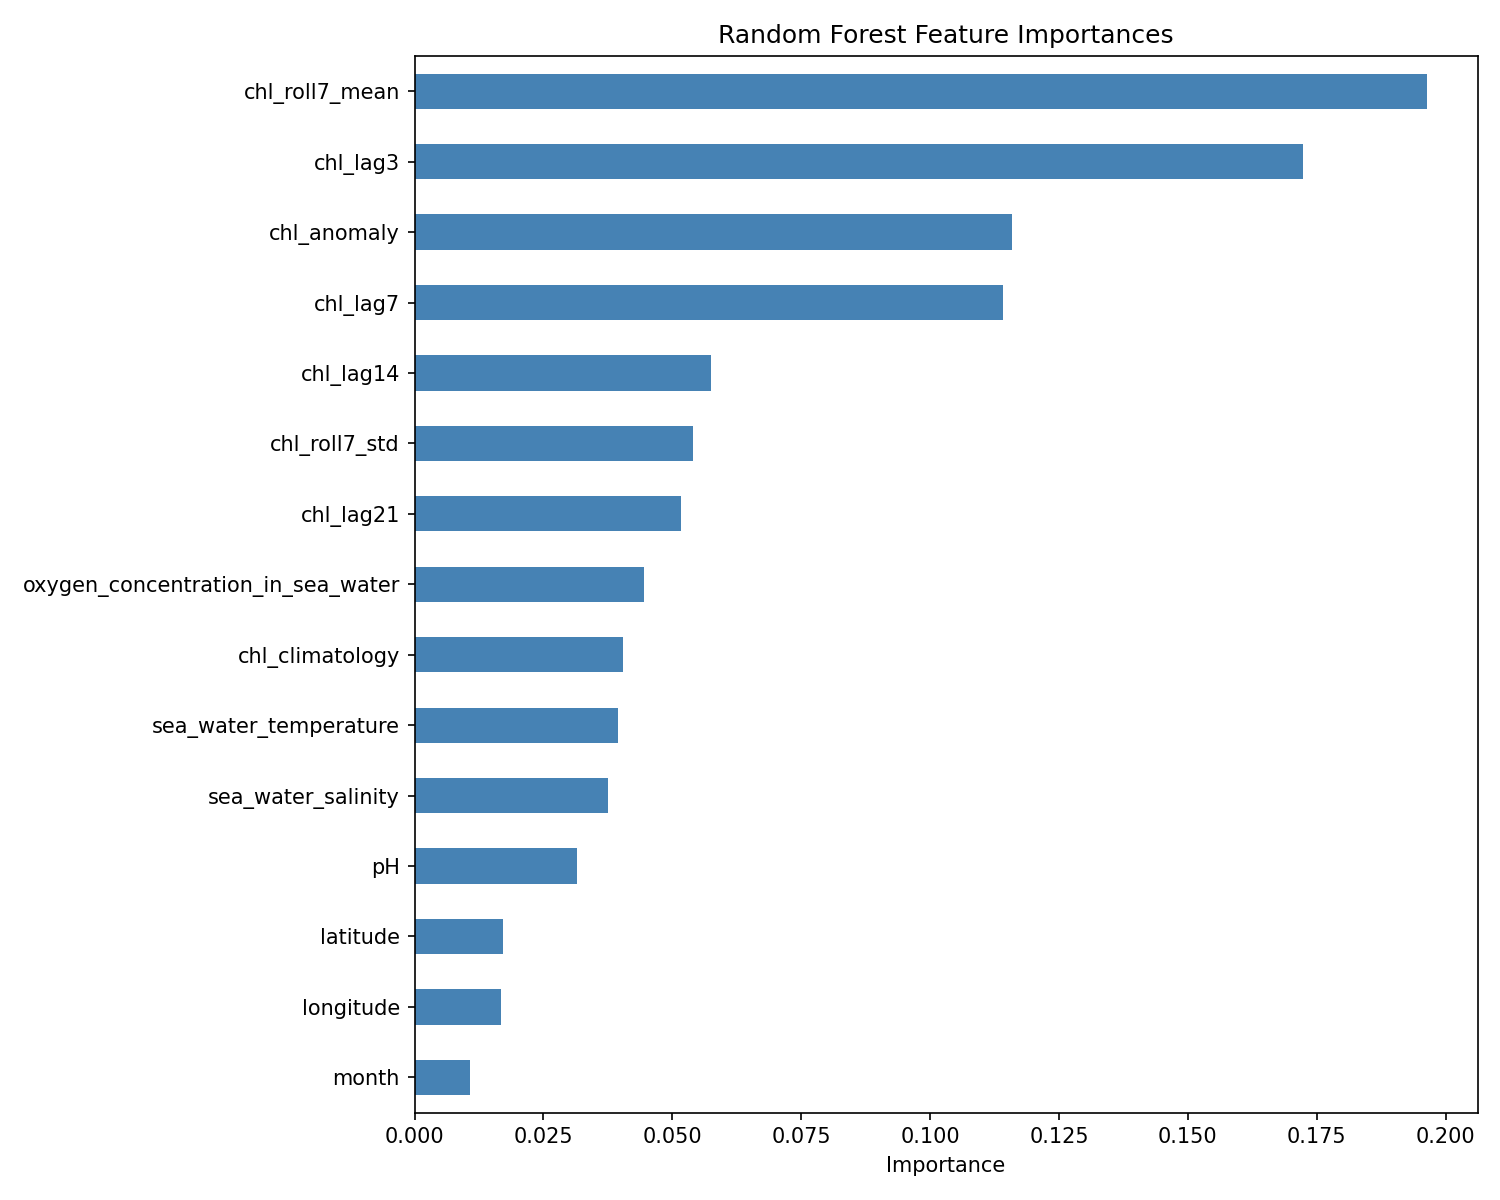
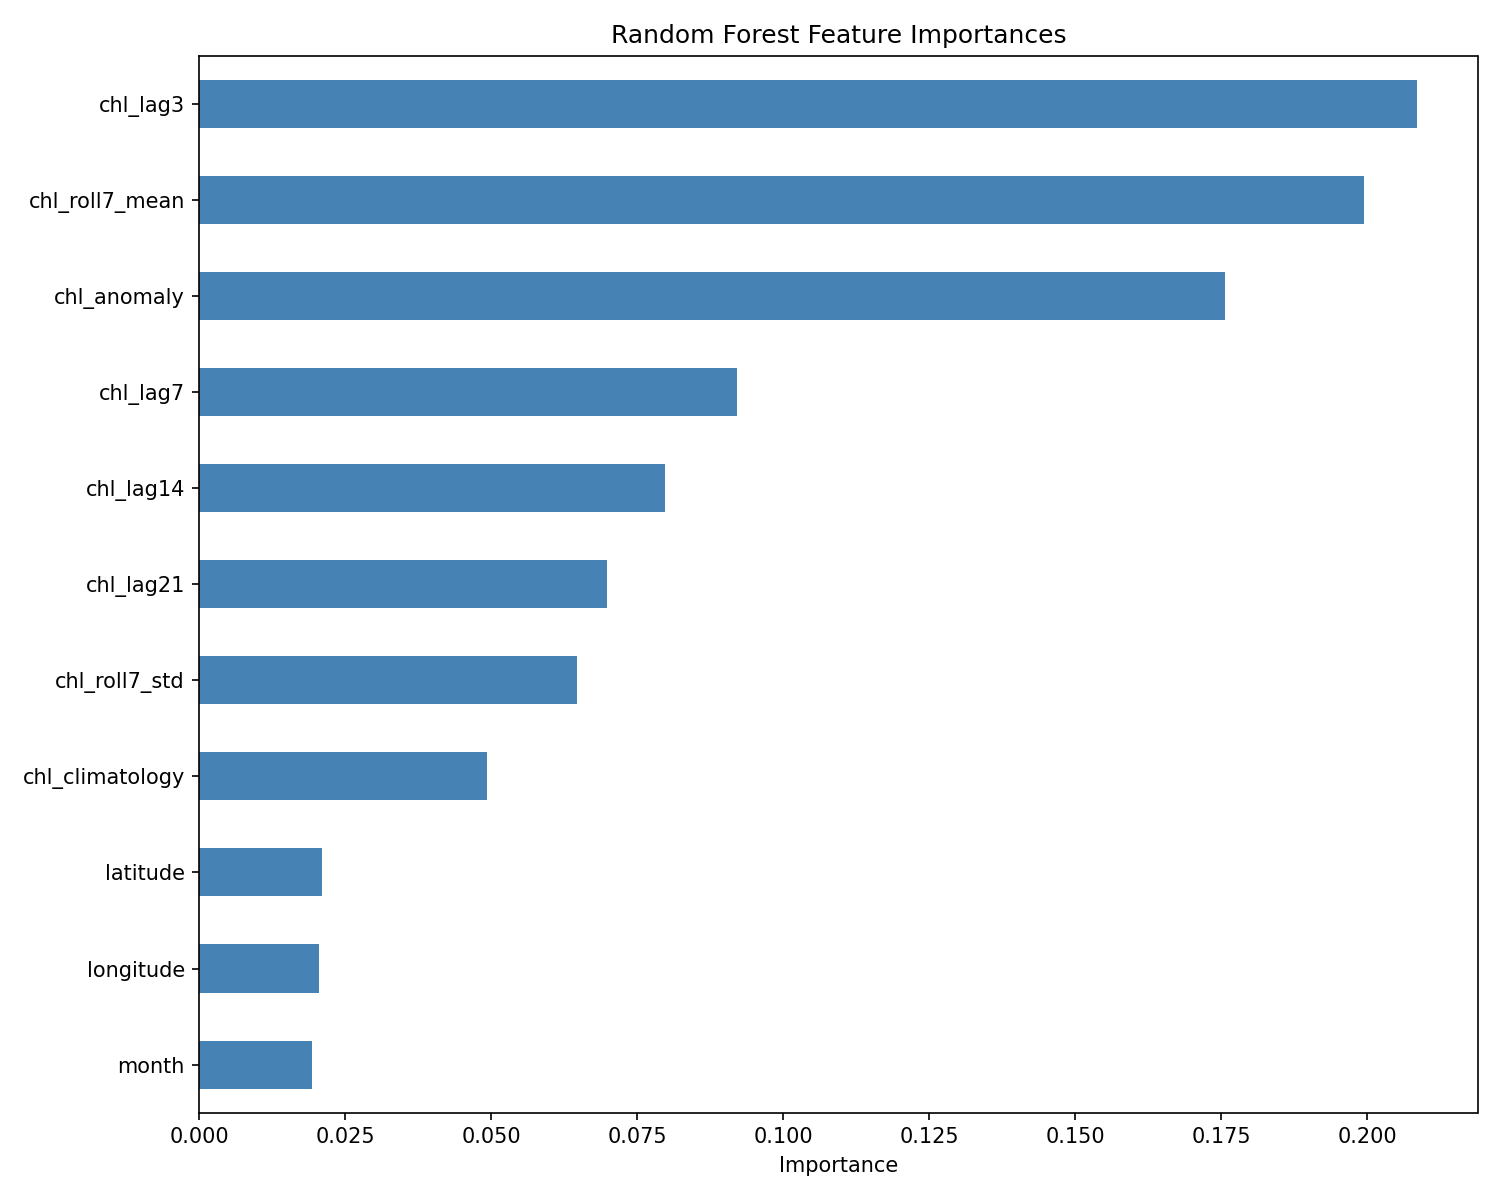
Refactor download_range function to support reverse date iteration and update failure analysis with detailed insights

diff --git a/src/models/failure_analysis.py b/src/models/failure_analysis.py
@@ -1,0 +1,69 @@
+import pandas as pd
+import numpy as np
+from xgboost import XGBClassifier
+
+df = pd.read_csv("data/hab_features_final.csv", low_memory=False)
+df['date'] = pd.to_datetime(df['date'])
+df['bloom_7d_ahead'] = df.groupby('station_name')['bloom'].shift(-7)
+
+features = [
+    'latitude', 'longitude', 'month',
+    'chl_anomaly', 'chl_climatology',
+    'chl_roll7_mean', 'chl_roll7_std',
+    'chl_lag3', 'chl_lag7', 'chl_lag14', 'chl_lag21',
+]
+
+train = df[df['date'].dt.year <= 2019]
+val = df[(df['date'].dt.year >= 2020) & (df['date'].dt.year <= 2022)]
+
+X_train = train[features + ['bloom_7d_ahead']].dropna()
+y_train = X_train.pop('bloom_7d_ahead')
+
+X_val_full = val[features + ['bloom_7d_ahead', 'station_name', 'date', 'month']].dropna()
+meta = X_val_full[['station_name', 'date', 'month']].copy()
+y_val = X_val_full['bloom_7d_ahead'].copy()
+X_val = X_val_full[features].copy()
+
+scale_pos_weight = (y_train == 0).sum() / (y_train == 1).sum()
+model = XGBClassifier(
+    n_estimators=200, max_depth=6, learning_rate=0.1,
+    scale_pos_weight=scale_pos_weight, random_state=42,
+    n_jobs=-1, eval_metric='logloss', verbosity=0
+)
+
+X_val = X_val_full[features].copy().reset_index(drop=True)
+X_val = X_val.loc[:, ~X_val.columns.duplicated()]
+y_val = X_val_full['bloom_7d_ahead'].copy().reset_index(drop=True)
+X_train = X_train.reset_index(drop=True)
+y_train = y_train.reset_index(drop=True)
+
+print(f"X_train shape: {X_train.shape}")
+print(f"X_val shape: {X_val.shape}")
+print(f"X_train columns: {list(X_train.columns)}")
+print(f"X_val columns: {list(X_val.columns)}")
+
+model.fit(X_train.values, y_train.values)
+probs = model.predict_proba(X_val.values)[:,1]
+preds = (probs > 0.5).astype(int)
+
+results = pd.DataFrame({
+    'station_name': meta['station_name'].values.tolist(),
+    'date': meta['date'].values.tolist(),
+    'month': meta['month'].values.tolist(),
+    'y_true': y_val.values,
+    'y_pred': preds,
+    'prob': probs
+})
+results['y_true'] = y_val.values
+results['y_pred'] = preds
+results['prob'] = probs
+
+fp = results[(results['y_pred'] == 1) & (results['y_true'] == 0)]
+fn = results[(results['y_pred'] == 0) & (results['y_true'] == 1)]
+
+print(f"False positives: {len(fp)}")
+print(f"False negatives: {len(fn)}")
+print(f"\nFP by month:\n{fp['month'].value_counts().sort_index()}")
+print(f"\nFN by month:\n{fn['month'].value_counts().sort_index()}")
+print(f"\nFP by station (top 10):\n{fp['station_name'].value_counts().head(10)}")
+print(f"\nFN by station (top 10):\n{fn['station_name'].value_counts().head(10)}")

diff --git a/bulk_download.py b/bulk_download.py
@@ -16,23 +16,23 @@ def already_downloaded(date_str):
             return True
     return False
 
-def download_range(start_date, end_date):
-    current = start_date
-    while current <= end_date:
+def download_range(start_date, end_date, reverse=False):
+    current = end_date if reverse else start_date
+    step = timedelta(days=-1) if reverse else timedelta(days=1)
+    
+    while (current >= start_date) if reverse else (current <= end_date):
         date_str = current.strftime("%Y-%m-%d")
         
         if already_downloaded(date_str):
-            print(f"Skipping {date_str} (already have it)")
-            current += timedelta(days=1)
+            print(f"Skipping {date_str}")
+            current += step
             continue
         
         print(f"Searching {date_str}...")
-        
         results = earthaccess.search_data(
             short_name="MODISA_L3m_CHL",
             temporal=(date_str, date_str),
         )
-        
         filtered = [r for r in results if "DAY" in str(r['umm']) and "4km" in str(r['umm'])]
         
         if filtered:
@@ -41,6 +41,5 @@ def download_range(start_date, end_date):
         else:
             print(f"No data for {date_str}")
         
-        current += timedelta(days=1)
-
+        current += step
 download_range(date(2003, 1, 1), date(2025, 12, 31))

diff --git a/src/features/match_labels_to_satellite.py b/src/features/match_labels_to_satellite.py
@@ -6,7 +6,7 @@ from datetime import datetime, timezone
 
 # Load labels
 print("Loading labels...")
-labels = pd.read_csv("data/hab_labels_lis.csv")
+labels = pd.read_csv("data/hab_features_final.csv", low_memory=False)
 labels['time'] = pd.to_datetime(labels['time'], utc=True)
 labels['date'] = labels['time'].dt.date
 

diff --git a/notes/failure_analysis.md b/notes/failure_analysis.md
@@ -1,0 +1,40 @@
+# Failure Analysis Memo
+
+## Overview
+XGBoost model evaluated on held-out 2020-2022 validation data.
+- False positives: 10,232 (predicted bloom, no bloom occurred)
+- False negatives: 4,904 (missed bloom events)
+- FP:FN ratio of ~2:1 -- model is conservative, more likely to over-predict than miss
+
+## Temporal Patterns
+Both false positives and false negatives peak in July-August:
+- FP: July 2,581 / August 3,807
+- FN: July 1,391 / August 1,848
+
+Summer is the hardest season. High temperatures and elevated background 
+chlorophyll create ambiguous conditions where the model struggles to 
+distinguish true bloom trajectories from seasonal elevation.
+
+## Geographic Patterns
+Top error stations are all western LIS (A4, B3, D3, C1, C2, F3):
+- Station A4 leads in both FP (616) and FN (311)
+- Western Narrows stations account for disproportionate share of errors
+
+This is consistent with Perreira (2021) who showed A4 is underrepresented 
+in the standard CT DEEP monitoring estimate and has the highest and most 
+variable chlorophyll concentrations in the Sound.
+
+## Hypotheses
+1. Summer ambiguity: the 7-day rolling chlorophyll signal is less 
+   discriminative in summer when background CHL is elevated
+2. Western LIS complexity: A4 and Narrows stations experience rapid, 
+   localized bloom dynamics driven by East River nutrient inputs that 
+   are harder to predict from lagged features alone
+3. The LSTM's temporal modeling may reduce summer errors by capturing 
+   the full trajectory shape rather than just the rolling mean
+
+## Implication for Model Development
+- Consider separate summer/non-summer models or seasonal threshold adjustment
+- ConvLSTM spatial model may better capture western LIS bloom dynamics
+- Additional features capturing East River discharge or NYC WWTP nutrient 
+  outputs could improve western station predictions